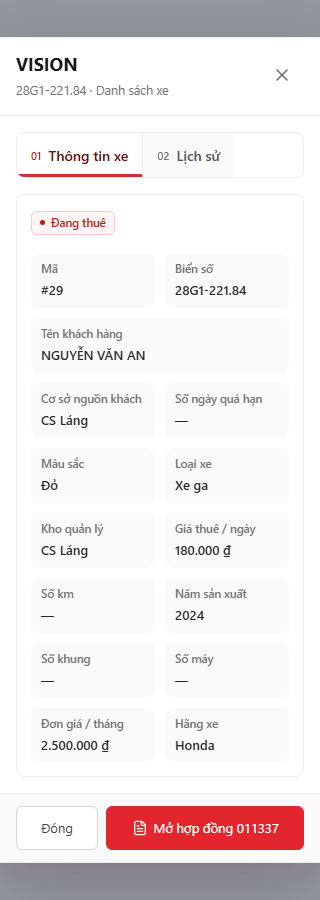
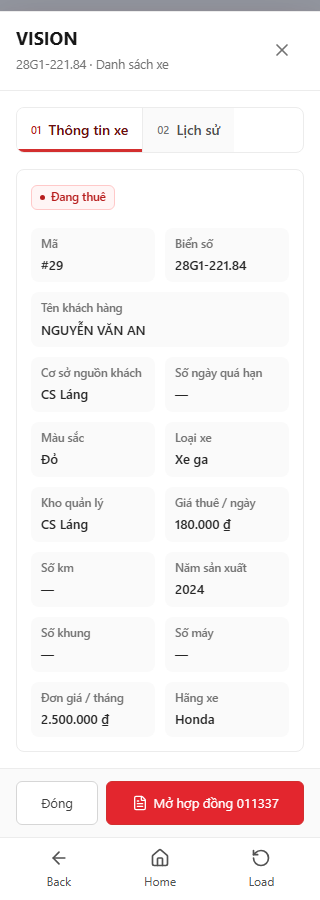
Keep mobile Back Home Load controls visible in dialogs

Changed region(s): [[0.0, 0.0, 1.0, 0.84], [0.0, 0.4044, 1.0, 1.0], [0.5312, 0.2489, 0.7812, 0.3422]]

diff --git a/src/components/management/MobileDialogNavigation.tsx b/src/components/management/MobileDialogNavigation.tsx
@@ -1,0 +1,17 @@
+'use client';
+
+import { ArrowLeft,House,RotateCcw } from 'lucide-react';
+import { useRouter } from 'next/navigation';
+import { useManagement } from './ManagementProvider';
+import { requestReload } from './ReloadButton';
+
+export function MobileDialogNavigation({onBack}:{onBack:()=>void}) {
+  const router=useRouter();
+  const {can,reload,refreshing}=useManagement();
+  const home=can('contracts.read')?'/operations':can('hr.read')?'/staff':can('customers.read')?'/customers':can('settings.write')?'/stores':can('vehicles.read')?'/vehicles':can('finance.read')?'/cashbook':can('accounts.manage')?'/accounts':'/login';
+  return <nav className="mg-mobile-bottom-nav mg-dialog-mobile-nav" aria-label="Điều hướng trong hộp thoại">
+    <button type="button" aria-label="Back — Đóng hộp thoại" onClick={onBack}><ArrowLeft size={20}/><span>Back</span></button>
+    <button type="button" aria-label="Home — Trang chủ" onClick={()=>{onBack();router.push(home);}}><House size={20}/><span>Home</span></button>
+    <button type="button" aria-label="Load — Tải lại dữ liệu" disabled={refreshing} onClick={()=>{requestReload();void reload();router.refresh();}}><RotateCcw size={20} className={refreshing?'mg-spin':undefined}/><span>{refreshing?'Đang tải…':'Load'}</span></button>
+  </nav>;
+}

diff --git a/src/styles/management.css b/src/styles/management.css
@@ -4578,3 +4578,23 @@
   .mg-contract-detail-grid:not(.mg-contract-lifecycle-summary),
   .mg-mobile-detail-fields { grid-template-columns: repeat(3, minmax(0, 1fr)); }
 }
+/* Native modal dialogs cover the page navigation; keep controls in the modal's top layer. */
+@media (max-width: 768px) {
+  .mg-dialog,
+  .mg-dialog.mg-dialog-fullscreen[open] {
+    --mg-dialog-nav-height: calc(62px + env(safe-area-inset-bottom, 0px));
+    max-height: calc(100dvh - var(--mg-dialog-nav-height));
+    margin-bottom: var(--mg-dialog-nav-height);
+  }
+  .mg-dialog.mg-dialog-fullscreen[open] { height: calc(100dvh - var(--mg-dialog-nav-height)); }
+  .mg-dialog .mg-dialog-mobile-nav {
+    position: fixed;
+    display: grid;
+    bottom: 0;
+    left: 0;
+    right: 0;
+    z-index: 6;
+    min-height: var(--mg-dialog-nav-height);
+    box-sizing: border-box;
+  }
+}

diff --git a/src/components/management/Dialog.tsx b/src/components/management/Dialog.tsx
@@ -2,6 +2,7 @@
 
 import { ReactNode, useEffect, useId, useRef } from 'react';
 import { X } from 'lucide-react';
+import { MobileDialogNavigation } from './MobileDialogNavigation';
 
 export function trapFocusWithin(container: HTMLElement) {
   const keydown = (event: KeyboardEvent) => {
@@ -57,5 +58,6 @@ export function Dialog({ title, subtitle, children, onClose, className = '', dis
     <div className="mg-dialog-header"><div><h2 id={titleId}>{title}</h2>{subtitle && <p>{subtitle}</p>}</div>
       <button className="mg-icon-button" type="button" onClick={onClose} aria-label="Đóng hộp thoại"><X size={20} /></button></div>
     {children}
+    <MobileDialogNavigation onBack={onClose}/>
   </dialog>;
 }

diff --git a/docs/2026-11-03-contract-save-and-mobile-details.md b/docs/2026-11-03-contract-save-and-mobile-details.md
@@ -6,4 +6,6 @@ The correction endpoint no longer enforces issuance prerequisites: ready/branch 
 
 Vehicle, customer, store, contract and expandable detail cards use two columns below 480px and three columns from 480–768px. Names receive two cells; addresses and notes span the row. Existing forms keep their layout. Mobile footer actions have a 44px minimum touch height.
 
+Mobile dialogs include Back / Home / Load inside the native modal layer. Back closes the current dialog, Home opens the permitted home page, and Load uses the existing data refresh. The dialog reserves bottom space for these controls, including fullscreen dialogs; desktop presentation is unchanged.
+
 Validation: production build, TypeScript, changed-file ESLint, contract edit/API checks, rollback PostgreSQL fixtures using the actual production draft projection, and Chrome layout checks at 320/393/600/1024px. Headless UI fixtures render the real vehicle component with synthetic data and management CSS; no network or business writes. Screenshots generated by `node scripts/check-mobile-detail-columns.cjs`.
